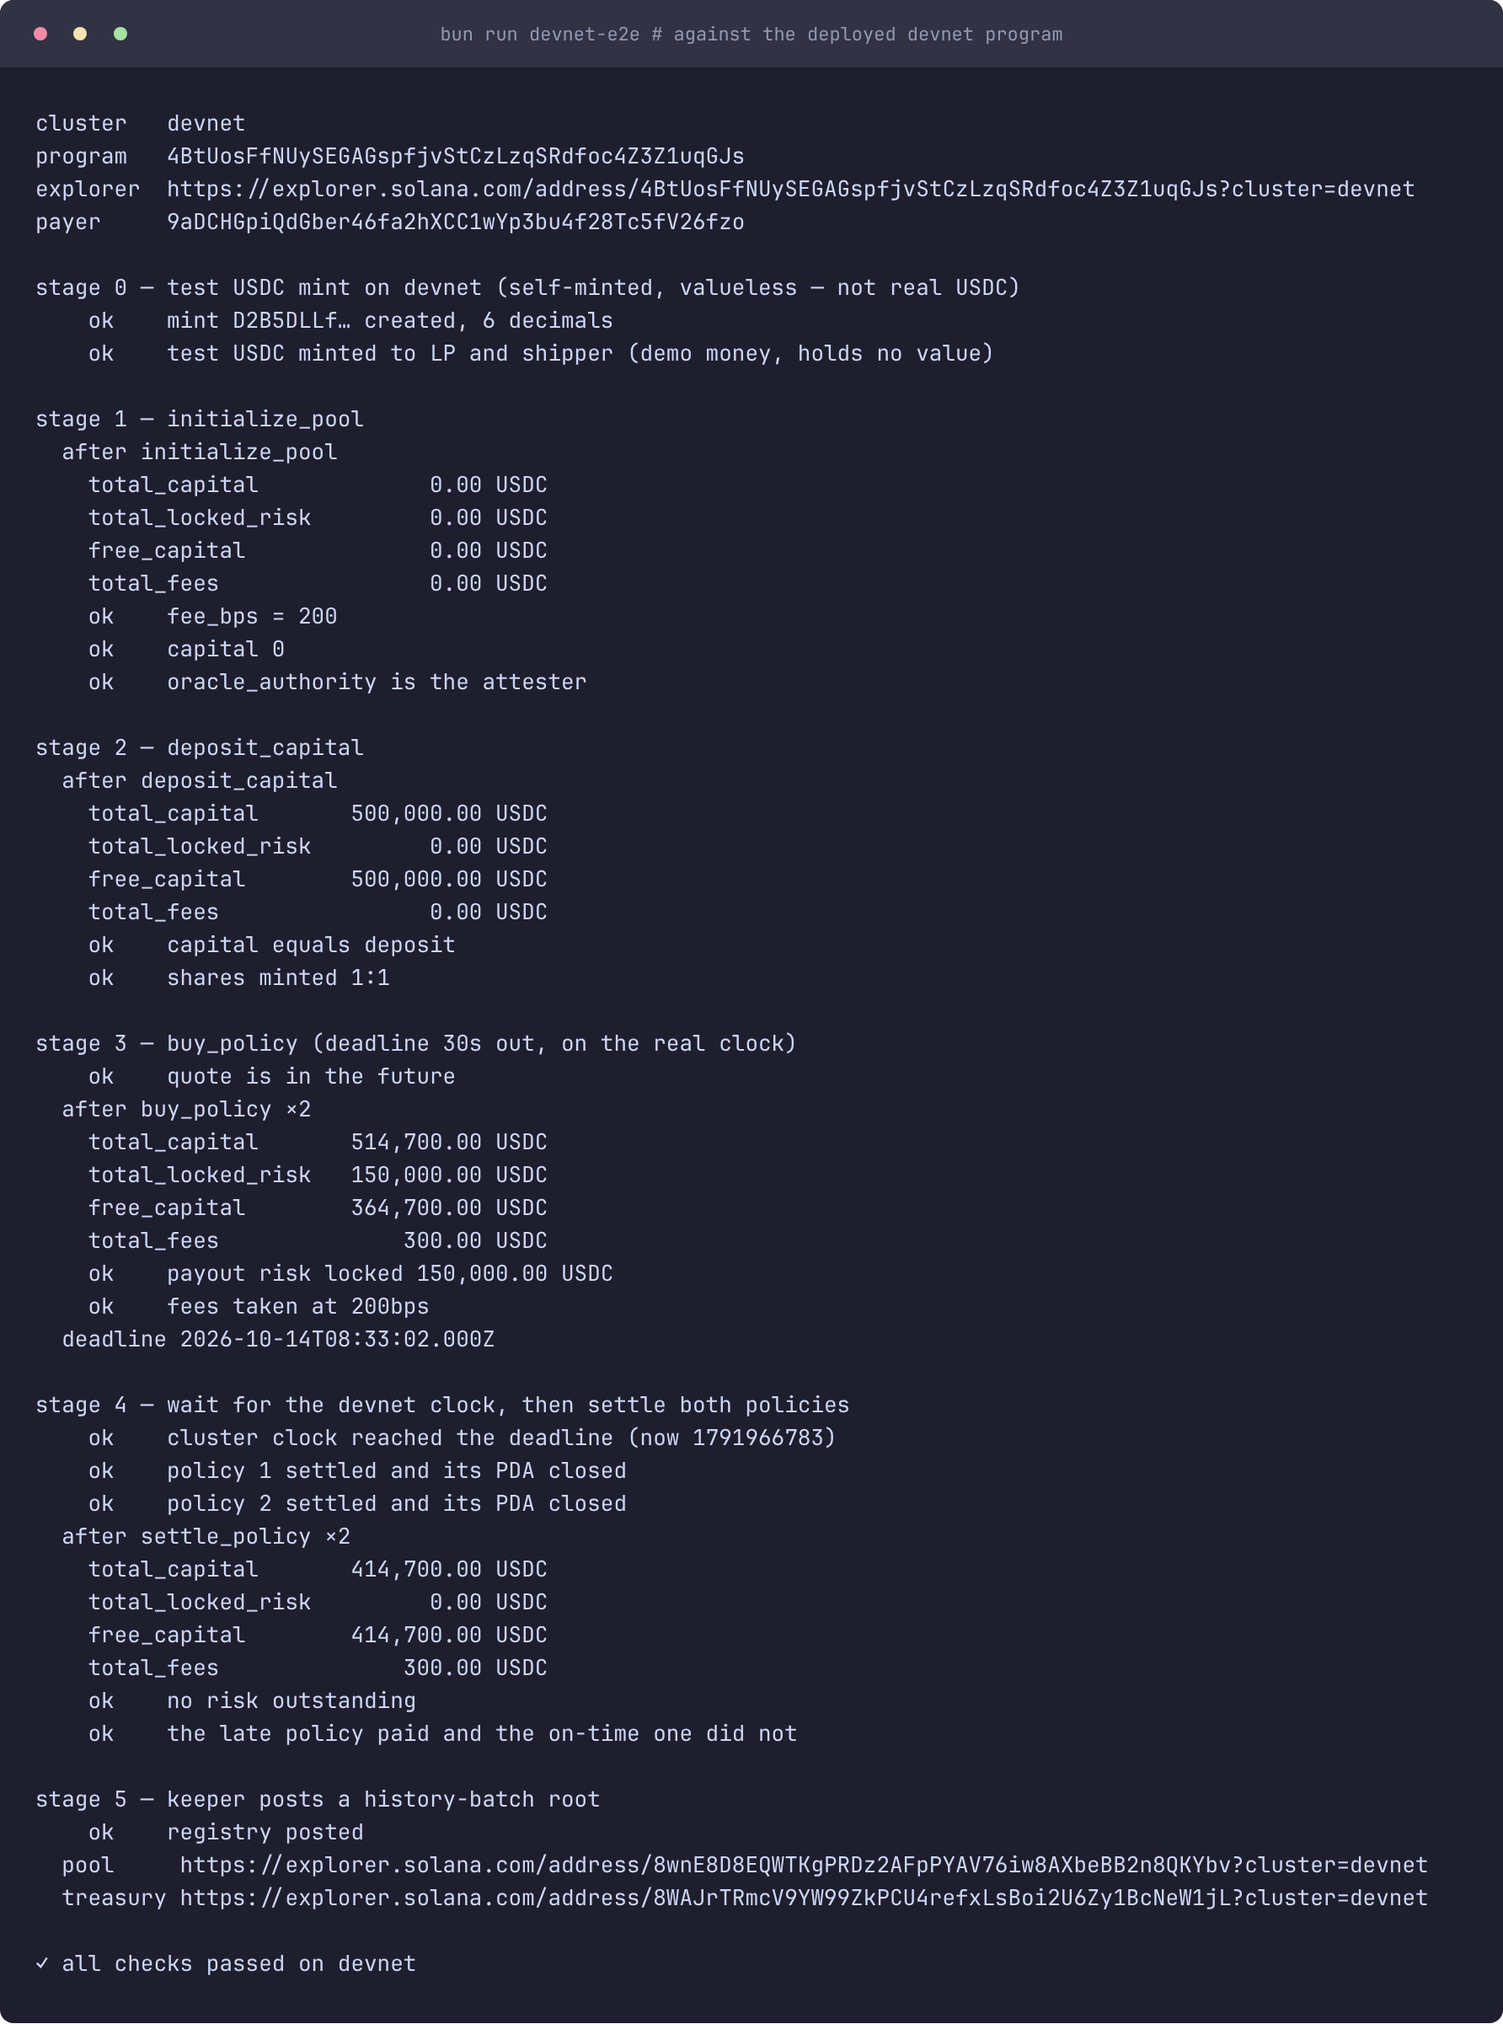
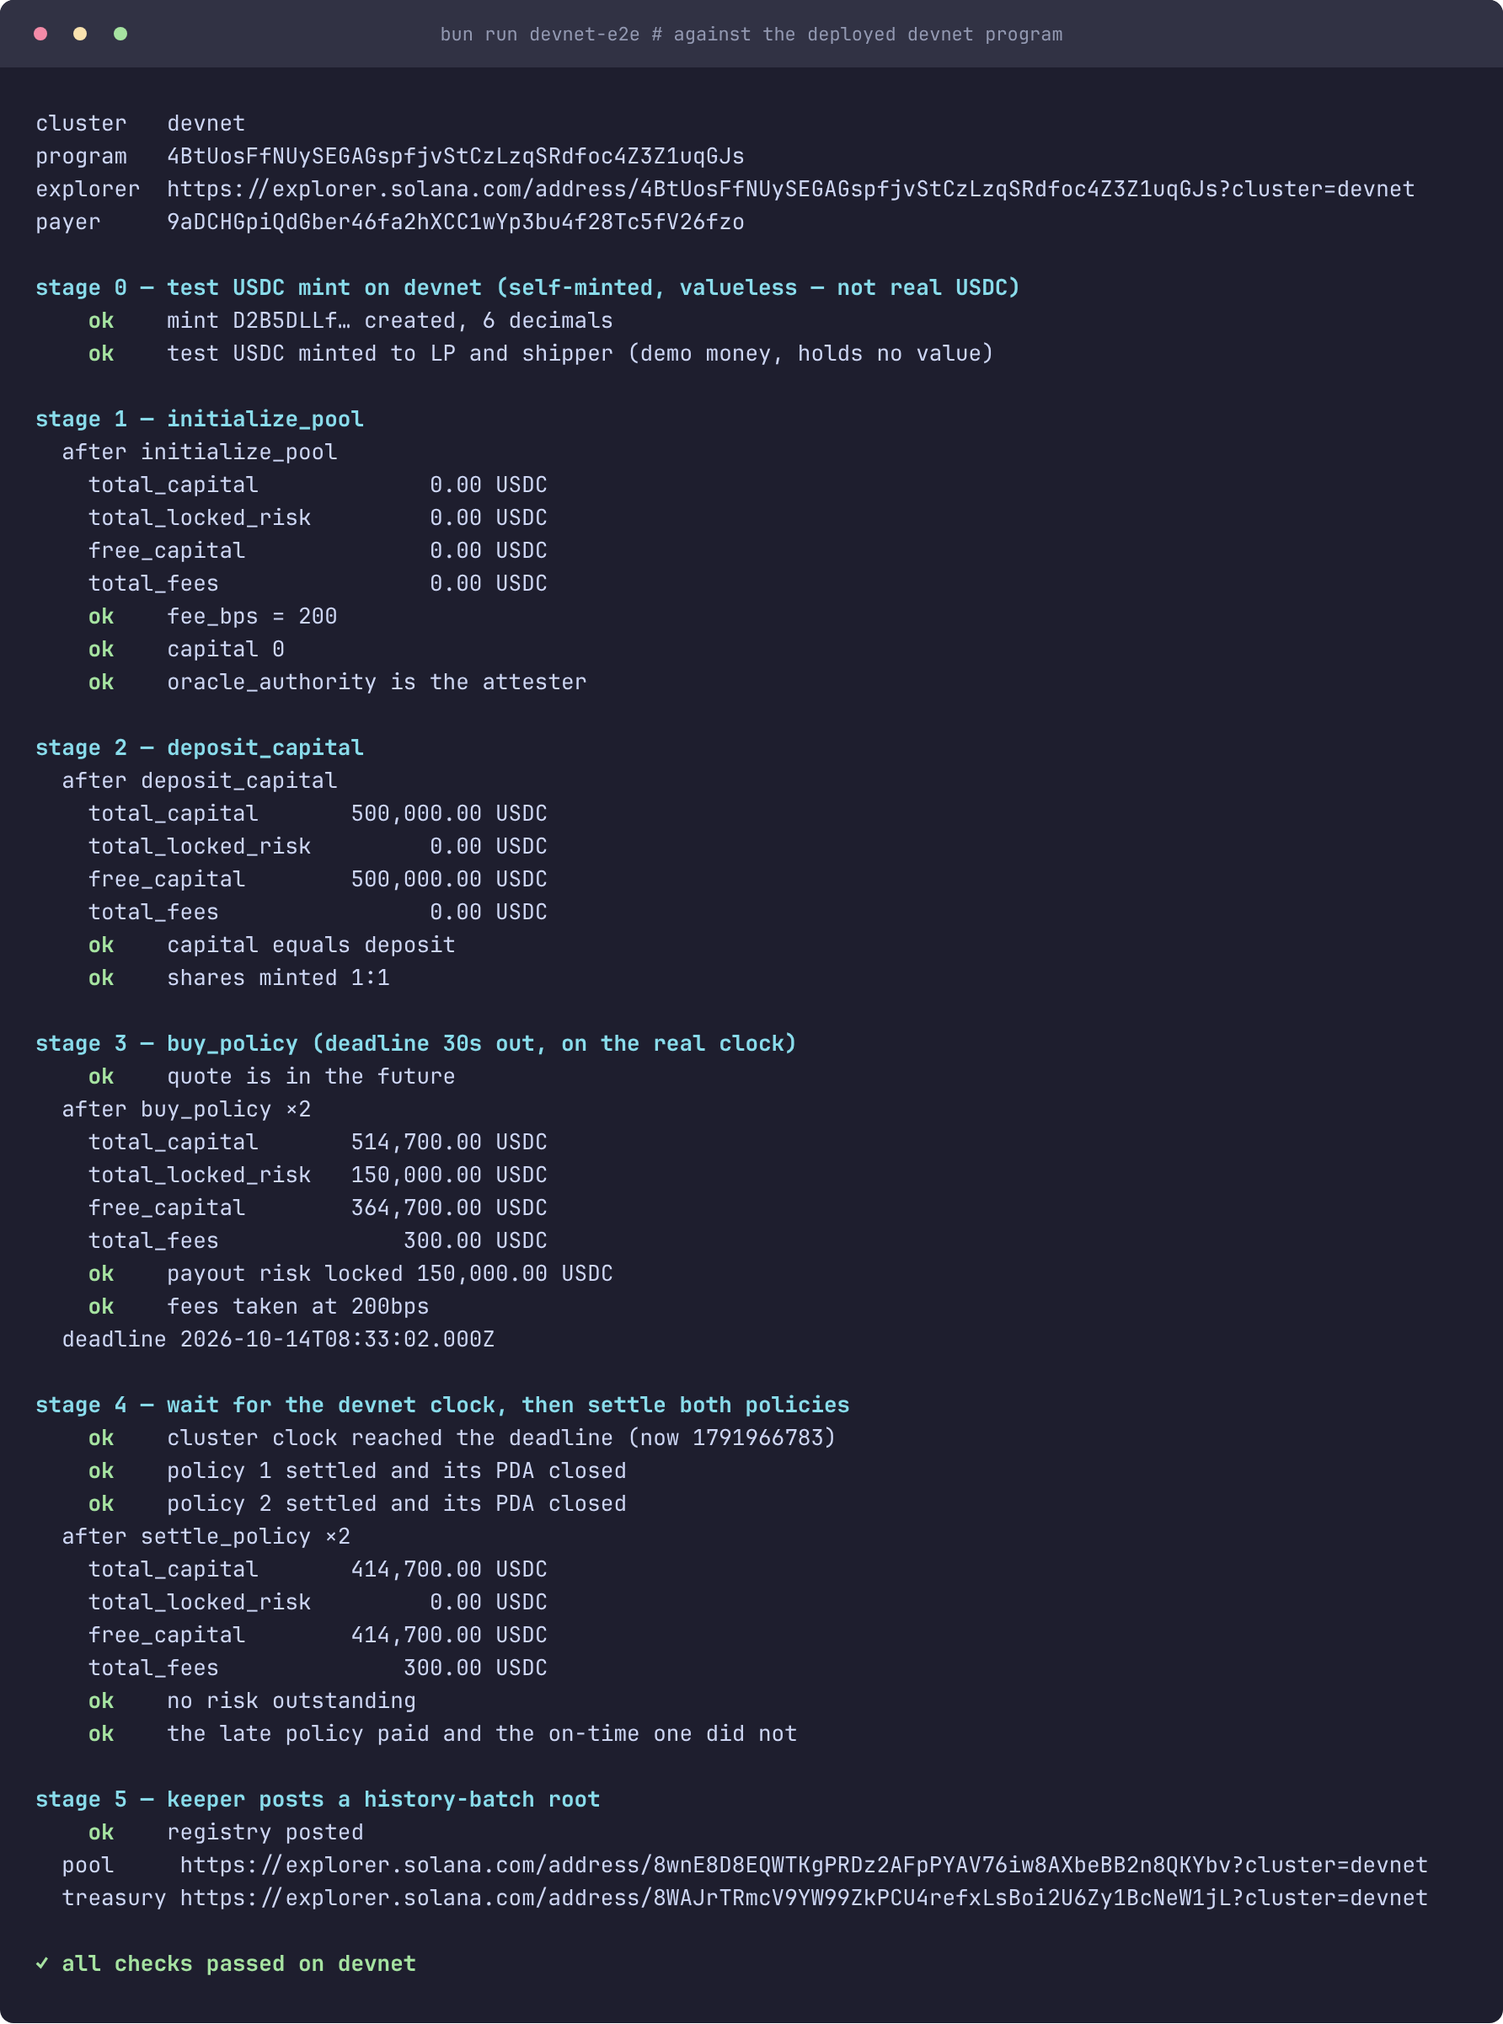
chore(freight-delay): fix the devnet demo mint so pool addresses stop moving fix(freight-delay): render the README evidence shots with their terminal colours

diff --git a/freight_delay/scripts/create-demo-mint.ts b/freight_delay/scripts/create-demo-mint.ts
@@ -1,0 +1,128 @@
+#!/usr/bin/env bun
+/**
+ * Create the one devnet demo USDC mint, so hand-driven interaction stops moving.
+ *
+ *   bun run demo-mint            # create it, or reuse what already exists
+ *   bun run demo-mint --top-up   # mint the starter balance again
+ *
+ * The mint authority is the paying wallet (`DEVNET_KEYPAIR`), not the mint's own
+ * keypair, so minting more demo USDC later needs nothing but the wallet.
+ */
+
+import {
+  createClient,
+  createKeyPairSignerFromPrivateKeyBytes,
+  devnet,
+  flattenInstructionPlan,
+  getAddressEncoder,
+  type KeyPairSigner,
+} from "@solana/kit";
+import { solanaDevnetRpc } from "@solana/kit-plugin-rpc";
+import { payerFromFile } from "@solana/kit-plugin-signer";
+import { getCreateAccountInstruction } from "@solana-program/system";
+import {
+  TOKEN_PROGRAM_ADDRESS,
+  findAssociatedTokenPda,
+  getInitializeMintInstruction,
+  getMintToATAInstructionPlanAsync,
+} from "@solana-program/token";
+
+import {
+  DEMO_DECIMALS,
+  DEMO_MINT_KEYPAIR,
+  DEMO_START_BALANCE,
+  DEVNET_KEYPAIR,
+  MINT_SPACE,
+  explorer,
+} from "./demo.ts";
+
+const client = await createClient()
+  .use(payerFromFile(DEVNET_KEYPAIR))
+  .use(
+    solanaDevnetRpc({
+      rpcUrl: devnet(process.env.DEVNET_RPC ?? "https://api.devnet.solana.com"),
+      maxConcurrency: 1,
+    }),
+  );
+const admin = client.payer;
+
+/** A 429 is refused before submission, so a retry cannot double-apply. */
+async function send(ixs: Parameters<typeof client.sendTransaction>[0]) {
+  for (let attempt = 1; ; attempt++) {
+    try {
+      return await client.sendTransaction(ixs);
+    } catch (e) {
+      const message = String((e as Error)?.message ?? e);
+      if (!/429|Too Many Requests|rate limit/i.test(message) || attempt >= 6) throw e;
+      const wait = 2_000 * attempt;
+      console.log(`  … devnet rpc busy, retrying in ${wait / 1000}s`);
+      await new Promise((r) => setTimeout(r, wait));
+    }
+  }
+}
+
+const file = Bun.file(DEMO_MINT_KEYPAIR);
+const saved = await file.exists();
+const seed = saved
+  ? Uint8Array.from((JSON.parse(await file.text()) as number[]).slice(0, 32))
+  : crypto.getRandomValues(new Uint8Array(32));
+const mint: KeyPairSigner = await createKeyPairSignerFromPrivateKeyBytes(seed);
+
+if (!saved) {
+  const pubkey = new Uint8Array(getAddressEncoder().encode(mint.address));
+  await Bun.write(DEMO_MINT_KEYPAIR, JSON.stringify([...seed, ...pubkey]));
+  console.log(`keypair  wrote ${DEMO_MINT_KEYPAIR} (git-ignored)`);
+}
+
+console.log(`payer    ${admin.address}`);
+console.log(`mint     ${mint.address}`);
+
+const onChain = await client.rpc.getAccountInfo(mint.address, { encoding: "base64" }).send();
+if (onChain.value) {
+  console.log("state    already on devnet — reusing it");
+} else {
+  await send([
+    getCreateAccountInstruction({
+      payer: admin,
+      newAccount: mint,
+      lamports: 1_500_000n,
+      space: MINT_SPACE,
+      programAddress: TOKEN_PROGRAM_ADDRESS,
+    }),
+    getInitializeMintInstruction({
+      mint: mint.address,
+      decimals: DEMO_DECIMALS,
+      mintAuthority: admin.address,
+      freezeAuthority: null,
+    }),
+  ]);
+  console.log(`state    created, ${DEMO_DECIMALS} decimals, authority ${admin.address}`);
+}
+
+const [ata] = await findAssociatedTokenPda({
+  owner: admin.address,
+  tokenProgram: TOKEN_PROGRAM_ADDRESS,
+  mint: mint.address,
+});
+const funded = (await client.rpc.getAccountInfo(ata, { encoding: "base64" }).send()).value !== null;
+
+if (!funded || process.argv.includes("--top-up")) {
+  const plan = await getMintToATAInstructionPlanAsync({
+    payer: admin,
+    owner: admin.address,
+    mint: mint.address,
+    mintAuthority: admin,
+    amount: DEMO_START_BALANCE,
+    decimals: DEMO_DECIMALS,
+  });
+  await send(flattenInstructionPlan(plan));
+  console.log(`balance  minted ${DEMO_START_BALANCE / 10n ** BigInt(DEMO_DECIMALS)} demo USDC to ${ata}`);
+} else {
+  console.log(`balance  already funded at ${ata} (pass --top-up to mint more)`);
+}
+
+console.log(`
+explorer  ${explorer(`address/${mint.address}`)}
+
+Record that address as DEMO_MINT in scripts/demo.ts, then run: bun run pdas
+`);

diff --git a/freight_delay/scripts/pdas.ts b/freight_delay/scripts/pdas.ts
@@ -1,0 +1,62 @@
+#!/usr/bin/env bun
+/**
+ * Print the four addresses an instruction on Explorer asks for.
+ *
+ *   bun run pdas                        # the demo mint and the DEVNET_KEYPAIR wallet
+ *   bun run pdas <mint> [attester]      # any other pool
+ *
+ * Explorer derives `config` and `treasury` on its own, but only once the accounts
+ * their seeds reference are filled in — the mint and the attester, in that order.
+ * This prints the whole set so nothing has to be derived by hand.
+ */
+
+import { address, createClient, type Address } from "@solana/kit";
+import { payerFromFile } from "@solana/kit-plugin-signer";
+import { SYSTEM_PROGRAM_ADDRESS } from "@solana-program/system";
+import { TOKEN_PROGRAM_ADDRESS } from "@solana-program/token";
+
+import { FREIGHT_DELAY_PROGRAM_ADDRESS, findConfigPda, findTreasuryPda } from "../client/generated/index.ts";
+import { DEMO_MINT, DEVNET_KEYPAIR, explorer } from "./demo.ts";
+
+const [mintArg, attesterArg] = process.argv.slice(2);
+const mint: Address = mintArg ? address(mintArg) : DEMO_MINT;
+const payer = (await createClient().use(payerFromFile(DEVNET_KEYPAIR))).payer;
+const attester: Address = attesterArg ? address(attesterArg) : payer.address;
+
+const [config, configBump] = await findConfigPda(
+  { usdcMint: mint, oracleAuthority: attester },
+  { programAddress: FREIGHT_DELAY_PROGRAM_ADDRESS },
+);
+const [treasury, treasuryBump] = await findTreasuryPda(
+  { config },
+  { programAddress: FREIGHT_DELAY_PROGRAM_ADDRESS },
+);
+
+const rows: [string, string][] = [
+  ["program", FREIGHT_DELAY_PROGRAM_ADDRESS],
+  ["usdc_mint", mint],
+  ["oracle_authority", attester],
+  ["config", `${config}  (bump ${configBump})`],
+  ["treasury", `${treasury}  (bump ${treasuryBump})`],
+];
+
+const width = Math.max(...rows.map(([k]) => k.length));
+for (const [k, v] of rows) console.log(`${k.padEnd(width)}  ${v}`);
+
+console.log(`
+initialize_pool on Explorer, in the order the form asks:
+  admin             ${payer.address}   (signer: your wallet)
+  usdc_mint         ${mint}
+  oracle_authority  ${attester}   (signer: signs for the pool's oracle key)
+  config            ${config}
+  treasury          ${treasury}
+  token_program     ${TOKEN_PROGRAM_ADDRESS}
+  system_program    ${SYSTEM_PROGRAM_ADDRESS}
+  args              fee_bps 200, keeper + underwriter = your wallet
+
+keeper, underwriter and oracle_authority are stored at initialize_pool, so set all
+three to the wallet above: then this one key can also call get_quote, post_root, and
+sign the oracle's attestations (bun run attest --keypair ~/.config/solana/id.json).
+
+${explorer(`address/${config}`)}
+`);

diff --git a/attester/src/cli.ts b/attester/src/cli.ts
@@ -4,6 +4,10 @@
  *   bun run src/cli.ts --pool-hex <64 hex> --seed-hex <64 hex> \
  *     --shipment 27 --nonce 1 --arrival 1700000000 [--terminal 4201] [--json]
  *
+ * The signing key comes either as a raw `--seed-hex` or as a Solana keypair file,
+ * `--keypair ~/.config/solana/id.json` — a wallet's own key can be the pool's
+ * `oracle_authority`, and this reads just its seed instead of asking you to copy it.
+ *
  * Prints the 64-byte message and its ed25519 signature as hex — exactly the
  * bytes `settle_policy` verifies, plus the public key that must be the pool's
  * `oracle_authority`. It does not submit: this package carries no Solana
@@ -15,8 +19,10 @@
  * free on the wire format alone.
  */
 
+import { readFileSync } from "node:fs";
+
 import { type ArrivalPayload, encodePayload } from "./payload.ts";
-import { publicKeyFromPrivate, signPayload } from "./signing.ts";
+import { publicKeyFromPrivate, seedFromKeypairJson, signPayload } from "./signing.ts";
 
 function arg(name: string): string | undefined {
   const at = process.argv.indexOf(`--${name}`);
@@ -39,7 +45,17 @@ function fromHex(hex: string, bytes: number): Uint8Array {
 const toHex = (bytes: Uint8Array) => Buffer.from(bytes).toString("hex");
 
 const pool = fromHex(required("pool-hex"), 32);
-const seed = fromHex(required("seed-hex"), 32);
+
+const seedHex = arg("seed-hex");
+const keypairPath = arg("keypair");
+let seed: Uint8Array;
+if (seedHex !== undefined && keypairPath === undefined) {
+  seed = fromHex(seedHex, 32);
+} else if (keypairPath !== undefined && seedHex === undefined) {
+  seed = seedFromKeypairJson(JSON.parse(readFileSync(keypairPath, "utf8")));
+} else {
+  throw new Error("pass exactly one of --seed-hex <64 hex> or --keypair <path>");
+}
 
 const payload: ArrivalPayload = {
   pool,

diff --git a/attester/test/attester.test.ts b/attester/test/attester.test.ts
@@ -8,6 +8,7 @@ import {
   generateAttesterKeypair,
   privateKeyFromSeed,
   publicKeyFromPrivate,
+  seedFromKeypairJson,
   signPayload,
   verifyPayload,
 } from "../src/signing.ts";
@@ -22,6 +23,23 @@ const SAMPLE: ArrivalPayload = {
 
 /** The pool an attestation is for, as the raw 32 bytes of its address. */
 const POOL = new Uint8Array(32).fill(5);
+
+describe("keypair files", () => {
+  it("takes the ed25519 seed from the first 32 bytes of a Solana keypair", () => {
+    const seed = new Uint8Array(32).fill(9);
+    const publicKey = publicKeyFromPrivate(seed);
+    const file = [...seed, ...publicKey];
+
+    assert.deepEqual(seedFromKeypairJson(file), seed);
+    assert.deepEqual(publicKeyFromPrivate(seedFromKeypairJson(file)), publicKey);
+  });
+
+  it("rejects anything that is not a 32-byte-prefixed byte array", () => {
+    assert.throws(() => seedFromKeypairJson("not a keypair"), TypeError);
+    assert.throws(() => seedFromKeypairJson([1, 2, 3]), RangeError);
+    assert.throws(() => seedFromKeypairJson([999, ...new Array(31).fill(1)]), TypeError);
+  });
+});
 
 describe("payload encoding", () => {
   it("is 64 bytes and round-trips", () => {

diff --git a/freight_delay/scripts/demo.ts b/freight_delay/scripts/demo.ts
@@ -1,0 +1,26 @@
+/**
+ * The fixed inputs of the devnet demo pool.
+ *
+ * `devnet-e2e` mints a throwaway token per run, so every run's pool lands at a new
+ * address: fine for a clean-room proof, useless for clicking instructions by hand.
+ * `DEMO_MINT` is the one token that does not move.
+ */
+
+import { address, type Address } from "@solana/kit";
+
+/** Created by `bun run demo-mint`, which prints the address to record here. */
+export const DEMO_MINT: Address = address("HfYYAGXcDEVup6DK9ru2pC1cLHtRp1Fxmtgfjxqv8v95");
+
+/** The program rejects any mint that is not 6 decimals, so the demo token matches. */
+export const DEMO_DECIMALS = 6;
+
+export const MINT_SPACE = 82n;
+
+export const DEMO_START_BALANCE = 5_000_000n * 10n ** BigInt(DEMO_DECIMALS);
+
+/** Written by `bun run demo-mint`, and needed only to create the mint: its authority is the wallet. */
+export const DEMO_MINT_KEYPAIR = new URL("../.demo/demo-mint.json", import.meta.url).pathname;
+
+export const DEVNET_KEYPAIR = process.env.DEVNET_KEYPAIR ?? `${process.env.HOME}/.config/solana/id.json`;
+
+export const explorer = (what: string) => `https://explorer.solana.com/${what}?cluster=devnet`;

diff --git a/attester/src/signing.ts b/attester/src/signing.ts
@@ -33,6 +33,25 @@ export function privateKeyFromSeed(seed: Uint8Array): Uint8Array {
   return seed;
 }
 
+/**
+ * A Solana CLI keypair file is a JSON array of the 64 bytes `seed || publicKey`, so its
+ * first 32 are the ed25519 seed this package signs with. That is what lets a wallet —
+ * `~/.config/solana/id.json` — also be the pool's `oracle_authority`.
+ */
+export function seedFromKeypairJson(value: unknown): Uint8Array {
+  if (!Array.isArray(value)) {
+    throw new TypeError("a keypair file is a JSON array of bytes");
+  }
+  if (value.length < KEY_LEN) {
+    throw new RangeError(`expected at least ${KEY_LEN} bytes, got ${value.length}`);
+  }
+  const seed = value.slice(0, KEY_LEN);
+  if (seed.some((byte) => typeof byte !== "number" || !Number.isInteger(byte) || byte < 0 || byte > 255)) {
+    throw new TypeError("a keypair file holds one byte per entry");
+  }
+  return Uint8Array.from(seed as number[]);
+}
+
 export function generateAttesterKeypair(): AttesterKeypair {
   const privateKey = crypto.getRandomValues(new Uint8Array(KEY_LEN));
   return { privateKey, publicKey: ed.getPublicKey(privateKey) };

diff --git a/freight_delay/README.md b/freight_delay/README.md
@@ -137,6 +137,39 @@ step. It cannot time-travel the way the local walkthrough does, so it buys a pol
 whose deadline is 30 seconds out and polls the cluster clock until it passes — the
 script retries on the public RPC's HTTP 429s.
 
+## Interacting on devnet
+
+`bun run devnet-e2e` mints a throwaway token every run, which is what makes it a
+clean-room proof — and what makes it useless for driving an instruction by hand, where
+the address must stop moving. Two commands cover that case instead:
+
+```bash
+bun run demo-mint    # create the one demo token (writes the git-ignored .demo/demo-mint.json)
+bun run pdas         # print the addresses an instruction asks for, in the order it asks
+```
+
+`DEMO_MINT` in `scripts/demo.ts` is that token: 6 decimals, and its **mint authority is
+the paying wallet**, not the mint's own keypair — so minting more demo USDC later needs
+nothing but `bun run demo-mint --top-up`. Its keypair is only needed to create the
+account, which is why losing `freight_delay/.demo/` costs nothing but the address.
+
+Explorer derives `config` and `treasury` on its own, but only once the accounts their
+seeds reference are filled in: the mint first, then the attester (seeds are in the
+[PDAs table](#pdas) below). `bun run pdas` prints the whole set rather than leaving it to
+derivation — including, on request, for some other pool: `bun run pdas <mint> [attester]`.
+
+One consequence worth knowing before choosing a mint: `initialize_pool` can succeed
+**once** per `(usdc_mint, oracle_authority)` pair, because both are the config address.
+A second call is "account already in use" by construction — the exact discipline the e2e
+relies on.
+
+One wallet can hold every signing role. Three of them are **stored at `initialize_pool`**
+and compared later, so point all three at the same key: `keeper` (later `post_root` must be
+that wallet), `underwriter` (later `get_quote` must be that wallet) and `oracle_authority`
+(the key whose ed25519 signature `settle_policy` verifies — so the attester signs with it,
+`bun run attest --keypair ~/.config/solana/id.json`). `admin`, `lp`, `insured` and `crank`
+sign per transaction and can be the same wallet as well. `bun run pdas` prints the values.
+
 ## How it works
 
 | Role | Does |

diff --git a/attester/README.md b/attester/README.md
@@ -58,17 +58,22 @@ different one. Any change here is a breaking change to the on-chain verify.
 
 ```bash
 bun install
-bun test          # 25 tests
+bun test          # 27 tests
 bun run typecheck
 bun run attest    # print a signed attestation for one arrival
 ```
 
-`bun run attest` takes the pool and the attester seed as hex, the shipment and
-nonce as decimals, and the attested arrival as unix seconds:
+`bun run attest` takes the pool as hex, the shipment and nonce as decimals, and the
+attested arrival as unix seconds. The signing key comes as a raw seed, or as a Solana
+keypair file — a wallet can hold the pool's `oracle_authority`, so its own key signs:
 
 ```bash
 bun run attest --pool-hex <64 hex chars> --seed-hex <64 hex chars> \
   --shipment 27 --nonce 1 --arrival 1700000000 --terminal 4201 --json
+
+# the wallet that initialised the pool as its oracle_authority
+bun run attest --pool-hex <64 hex chars> --keypair ~/.config/solana/id.json \
+  --shipment 27 --nonce 1 --arrival 1700000000 --json
 ```
 
 ## The simulated source is not a toy
